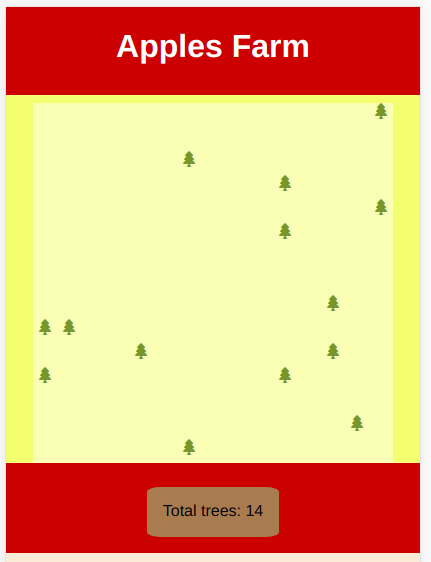
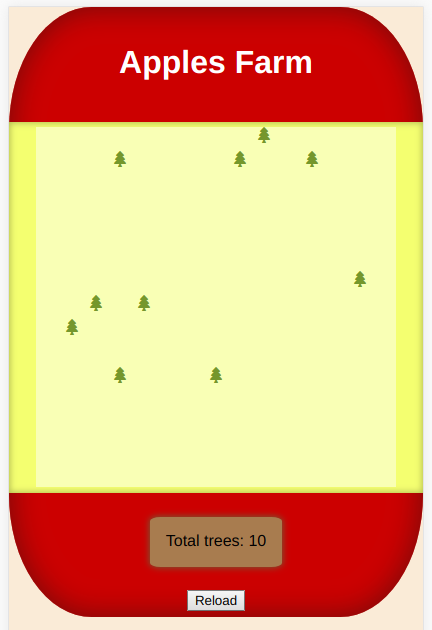
CSS twiks and generation changed

diff --git a/js/script.js b/js/script.js
@@ -1,69 +1,47 @@
 "use strict";
 
-import { Board } from './board.js';
-
 const width = 15;
 const height = 15;
 const treeColor = '#75972C';
 
-//not used
-let createBoard = function (width, height, element) {
-    //create nested divs
-    for (let x = 0; x < height; x++) {
-        let row = document.createElement('div');
-        row.id = "row-" + (x + 1);
+let trees = [];
+let div = document.getElementById("board");
+let treesCount = document.getElementById("total-trees");
+let btnReload = document.getElementById("btn-reload");
 
-        for (let y = 0; y < width; y++) {
-            let col = document.createElement('div');
-            col.id = "col-" + (y + 1);
-            row.appendChild(col);
-        }
-        element.appendChild(row);
-    }
-    //create a 2d array with all divs
-    let field = [];
-    for (let i = 0; i < height; i++) {
-        field.push(element.childNodes[i].childNodes)
-    }
-    //return it
-    return field;
-}
-//not used
-let populate = function(array, probability){
-    let population = 0;
-    //probability 0.0 - 1.0
-    for (let x = 0; x < array.length; x++) {
-        for (let y = 0; y < array[x].length; y++) {
-            if (Math.random() > 1-probability) {
-                //board[x][y].style.background = '#da1e1e';
-                //board[x][y].style.borderRadius = '50%';
-
-                //Create Tree icon
-                let icon = document.createElement('i');
-                icon.classList.add("fas");
-                icon.classList.add("fa-tree");
-                icon.style.color = treeColor;
-                array[x][y].appendChild(icon);
-                population++;
-            }
+let plant = function(number, color){
+    trees.forEach((x) => board.clean(x));
+    trees = [];
+    while(trees.length < number){
+        let randomNumber = Math.floor( (Math.random() * (width*height))+1 );
+        if(trees.indexOf(randomNumber) == -1){
+            trees.push(randomNumber);
         }
     }
-    return population;
+    trees.forEach((x) => board.plant(x, color));
+    treesCount.innerHTML = "Total trees: " + board.population;
 }
 
 
 //create board, a matrix with all the divs
-let board = new Board(width, height, document.getElementById("board"));
-console.log(board.population);
+let board = new Board(width, height, div);
 
-board.populate(0.05, treeColor);
-console.log(board.population);
+//board.populate(0.05, treeColor);
 
+btnReload.addEventListener('click', function(){
+    let treesNumber = Math.floor(Math.random()*13)+2;
+    plant(treesNumber, treeColor);
+});
+
+treesCount.innerHTML = "Total trees: " + board.population;
+
+
+
+/*
 let count = document.createElement('p');
 count.innerHTML = "Total trees: " + board.population;
 count.style.backgroundColor = '#A87C4F';
 count.style.padding = '1em';
 count.style.borderRadius = '10%';
 document.getElementById("container").appendChild(count);
-//let board = createBoard(width, height, document.getElementById("board"));
-//populate(board.field, 0.05);
+*/

diff --git a/js/board.js b/js/board.js
@@ -4,22 +4,28 @@ class Board{
         this.width = width;
         this.height = height;
         this.population = 0;
-        this.field = []; 
+        this.field = this.createField(element);            
+    }
+    createField(element){
+        let field = [];
+        let index = 1;
         for (let x = 0; x < this.height; x++) {
             let row = document.createElement('div');
-            row.id = "row-" + (x + 1);
-    
+            //row.id = "row-" + (x + 1);
+
             for (let y = 0; y < this.width; y++) {
                 let col = document.createElement('div');
-                col.id = "col-" + (y + 1);
+                col.id = "cell-" + index++;
                 row.appendChild(col);
             }
             element.appendChild(row);
         }
         for (let i = 0; i < this.height; i++) {
-            this.field.push(element.childNodes[i].childNodes)
-        }     
+            field.push(element.childNodes[i].childNodes)
+        }
+        return field;
     }
+
     populate(probability, treeColor){
         //probability 0.0 - 1.0
         for (let x = 0; x < this.field.length; x++) {
@@ -35,10 +41,29 @@ class Board{
                     icon.classList.add("fa-tree");
                     icon.style.color = treeColor;
                     this.field[x][y].appendChild(icon);
+                    //console.log(this.field[x][y]);
                 }
             }
         }
     }
-}
 
-export { Board };
+    plant(number, color){
+        let place = document.getElementById("cell-"+number);
+        if(place){
+            let icon = document.createElement('i');
+            icon.classList.add("fas");
+            icon.classList.add("fa-tree");
+            icon.style.color = color;
+            place.appendChild(icon);
+            this.population++;
+        }
+    }
+    clean(number){
+        let place = document.getElementById("cell-"+number);
+        if(place){            
+            place.removeChild(place.firstChild);
+            this.population--;
+        }
+    }
+
+}

diff --git a/style.css b/style.css
@@ -16,22 +16,26 @@ body{
     flex-direction: column;
     justify-content: center;
     align-items: center;
+    border-radius: 20%;
+    box-shadow: 0px 0px 50px 1px rgb(117, 10, 10) inset;
 }
 
 #tittle{
+    padding-top: 0.5em;
     color: white;
-    text-align: center;
+    height: 1.5em;
 }
 
 #board{
     background-color: #F4FF70;
     width: 100%;
     margin: 0.5em;
-    padding-top: 0.5em;
+    padding-top: 0.3em;
+    padding-bottom: 0.4em;
     display: flex;
     flex-direction: column;
+    box-shadow: 0.1px 0.1px 10px 1px rgb(180, 189, 83) inset;
 }
-
 #board *{
     width: 100%;
     height: auto;
@@ -39,12 +43,19 @@ body{
     flex-direction: row;
     justify-content: center;
 }
-
-
-
 #board * *{
     background-color: #f9ffb5;
     width: 1.5em;
     height: 1.5em;
     /*margin: 0.09em;*/
+}
+
+#total-trees{
+    padding: 1em;
+    background-color: #A87C4F;
+    border-radius: 8%;
+    box-shadow: 0px 0px 10px 1px rgb(121, 85, 50); 
+}
+#btn-reload{
+    margin: 0.5em;
 }

diff --git a/index.html b/index.html
@@ -15,9 +15,11 @@
     <div id="container">
         <h1 id="tittle">Apples Farm</h1>
         <div id="board"></div>
+        <p id="total-trees">Total trees: 0</p>
+        <button id="btn-reload">Reload</button>
     </div>
 <!--JS-->
-<script type="module" src="js/board.js"></script>
-<script type="module" src="js/script.js"></script>
+<script src="js/board.js"></script>
+<script src="js/script.js"></script>
 </body>
 </html>

diff --git a/README.md b/README.md
@@ -1,5 +1,5 @@
 # Applegame
-### A simple game about growing and selling apples.
+## A simple game about growing and selling apples.
 
 Like a game of life, but whit apple trees.
 
